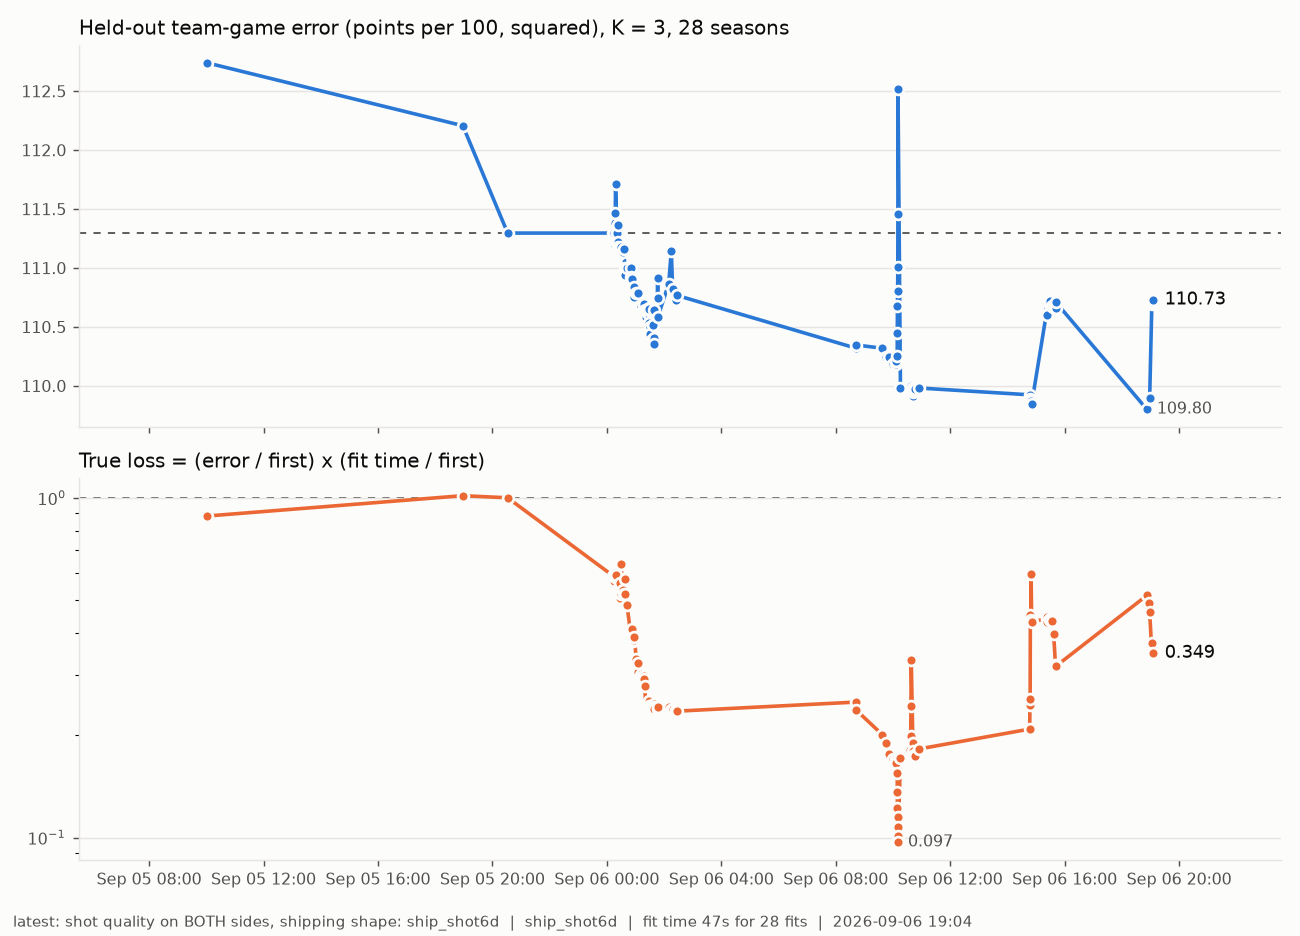
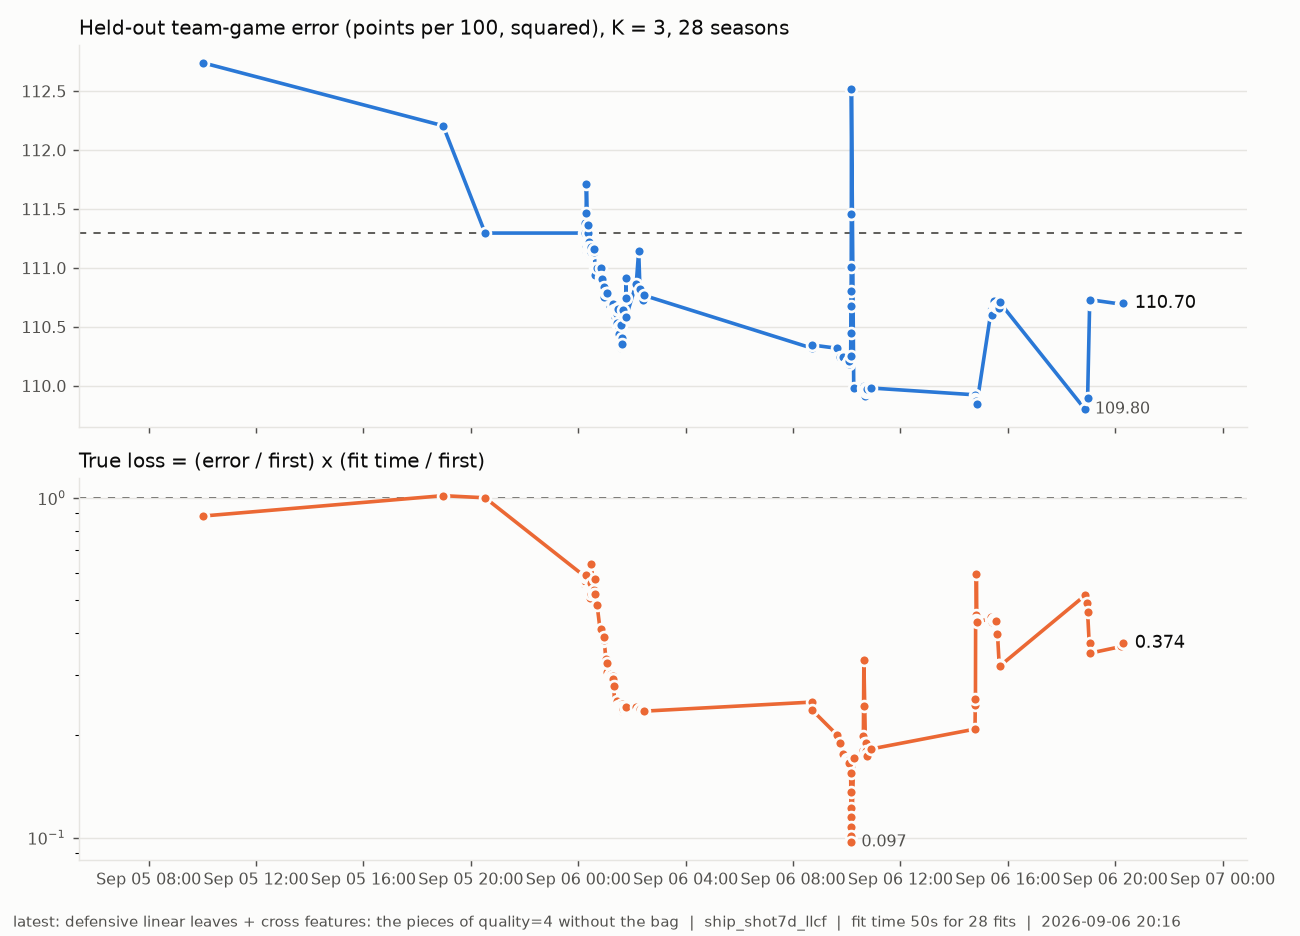
FINDINGS 22.6: season is not an intercept, and quality=4 on defense is three things
Chasing the owner's "it would not kill us to put season in as a linear term"
opened up the defensive booster, which nobody had decomposed.

The intercept reading is answerable and the answer is no: the panel's target is
possession-centred inside every window, so it drifts +0.078 points across 29
seasons against a target sd of 2.216.  There is no era trend left to fit.  But
season is worth +0.066 as a CONDITIONER, so the question was the shape, not the
usefulness.  Era-standardising the rates (HANDOFF 3.3's year-old item) is +0.032
on offense and -0.003 on defense: rejected.  linear_leaves is the local linear
version, offense already has it via quality=4 (forcing it off costs +0.011), and
defense is the one side shipping with it explicitly off -- where it is worth
-0.009.

That made the decomposition worth doing.  On defense, base 0.7223: linear_leaves
-0.0090, cross_features +0.0040 alone but -0.0128 together with linear leaves,
the bag +0.0028.  Two findings.  The parts interact on defense exactly as 21.25
found on offense.  And the BAG is what widens the prior -- the only piece that
moves the calibration slope, 1.08 -> 1.15 -- which is the floor that owns the
only permanently-failing test, so 21.26's "defense will not tolerate quality=4"
was really about the bag and the other two were collateral.  The bag is also the
only piece that helps the low-exposure rows (1.032 vs 1.075), so that tension is
live, and HANDOFF 3.3 now records it.
[…]

diff --git a/src/eracoef/systems.py b/src/eracoef/systems.py
@@ -223,6 +223,25 @@ def registry(cfg, rankmap=None, calmap=None) -> dict:
         S["best_both"] = MspiFast("best_both", gbdt_params=_FULLQ4, win_decay=0.3, decay=0.5,
                                   decay_exposure=True, target="apm",
                                   gbdt_features={"O": list(_PF), "D": list(_PF)})
+        # DEFENSIVE LINEAR LEAVES (the owner, 2026-09-06: "it would not kill us to put season in as a linear
+        # term").  A season INTERCEPT has nothing to capture -- the panel's target is possession-centred
+        # inside every window, so it drifts 0.078 over 29 years against a target sd of 2.2 -- but season is
+        # worth +0.066 as a CONDITIONER, and defense is the one side that ships with `linear_leaves: False`.
+        # A ridge per leaf over the split features is that conditioning made local and linear: -0.009 weighted
+        # MSE on the prior's own fit, the largest defensive gain measured this pass.
+        _LLD = {"linear_leaves": True, "cross_features": False}
+        # and the pieces of quality=4 decomposed on defense: linear leaves are the good part (-0.009), cross
+        # features are HARMFUL alone (+0.004) and the best thing available beside them (-0.013 together), and
+        # the BAG is what widens the prior (slope 1.08 -> 1.15) -- which is what the defensive spread floor
+        # polices, and a mechanism for why 21.26 had to reject the whole package on this side.
+        S["ship_shot7d_llcf"] = MspiFast("ship_shot7d_llcf", target="blend0.7", target_d="rapm1",
+                                         gbdt_params=_FULLQ4, win_decay=0.3, win_decay_d=1.0,
+                                         gbdt_params_d={"linear_leaves": True, "cross_features": True},
+                                         gbdt_features={"O": list(_SF), "D": [*_FF, *_SQ]})
+        S["ship_shot7d_ll"] = MspiFast("ship_shot7d_ll", target="blend0.7", target_d="rapm1",
+                                       gbdt_params=_FULLQ4, win_decay=0.3, gbdt_params_d=_LLD,
+                                       win_decay_d=1.0,
+                                       gbdt_features={"O": list(_SF), "D": [*_FF, *_SQ]})
         # the same without the nearby-window discount (the consensus floors, not the criterion, may want it)
         S["ship_ratio_b07_wd1"] = MspiFast("ship_ratio_b07_wd1", target="blend0.7",
                                            **{**_SK, "win_decay": 1.0})

diff --git a/FINDINGS.md b/FINDINGS.md
@@ -2405,6 +2405,75 @@ consensus, defensive spread 1.30, ten of ten floors, 82 passed and 1 xfailed.**
 if a later pass decides the score is worth the defensive headroom: drop the six names from `features_full_D`
 and point `cal_map` at `ship_shot7`.
 
+### 6. Season is not an intercept, and `quality=4` on defense is three things, not one
+
+The owner, reading the SHAP table: *"I don't think it would kill us to put season in as a linear term in the
+gbdt."*  The first half of that is answerable with a measurement and the answer is no -- but chasing it opened
+the defensive booster up, which nobody had done.
+
+**A season INTERCEPT has nothing to fit.**  The panel's target is possession-centred inside every window, so
+the weighted target mean drifts **+0.078 points across the 29 seasons on offense against a target sd of
+2.216** (3.5% of a sd) and 0.243 against 1.200 on defense, non-monotonically.  There is no era trend left in
+the target because the construction already removed it.
+
+**Season is nonetheless worth +0.066** -- deleting it from the shipped offensive list costs that much weighted
+MSE, and +0.129 on the low-exposure rows.  So its job is as a CONDITIONER: the same box line means different
+things in different eras, and an oblivious tree pays for that by re-splitting thresholds inside every era
+branch.  That is the thing a linear treatment could help, and it is a different thing from an intercept.
+
+Two ways to give it one, measured on the prior's own leave-window-out fit at each side's shipped booster:
+
+* **Era-standardise the rates** (z within window x side, which is exactly reproducible at prediction time
+  because the panel's window and the design's block are the same player population).  HANDOFF 3.3 had listed
+  this for a year.  **Offense +0.032, defense -0.003.**  Rejected.
+* **`linear_leaves`** -- a ridge per leaf over the split features, which is the local linear version.  Offense
+  already has it: `quality=4` leaves it validation-selected and forcing it OFF costs +0.011.  **Defense is the
+  one side that ships with it explicitly off** (`params_def`), and turning it on is **-0.009**.
+
+That last number made it worth decomposing `quality=4` on defense, which 21.26 had rejected as a package.
+Defensive prior, target RAPM_1, base 0.7223 weighted MSE:
+
+| | MSE | vs base | low-exposure | r | slope |
+|---|---|---|---|---|---|
+| shipped (`linear_leaves` off, `cross_features` off) | 0.7223 | | 1.0745 | 0.708 | 1.08 |
+| `linear_leaves` | 0.7133 | **-0.0090** | 1.0517 | 0.712 | 1.08 |
+| `cross_features` | 0.7263 | +0.0040 | 1.0812 | 0.706 | 1.07 |
+| **both** | **0.7095** | **-0.0128** | 1.0659 | **0.714** | 1.06 |
+| the bag (5 members) | 0.7251 | +0.0028 | 1.0376 | 0.709 | **1.12** |
+| linear leaves + the bag | 0.7231 | +0.0008 | **1.0324** | 0.712 | **1.15** |
+
+Three readings, and the third is the useful one.
+
+**The parts interact on defense exactly as 21.25 found on offense.**  `cross_features` is HARMFUL alone
+(+0.004) and the best thing available beside linear leaves (-0.013 together).  A knob's sign here depends on
+what else is on.
+
+**The bag is what widens the prior.**  It is the only variant that moves the calibration slope, 1.08 -> 1.12
+and 1.15, and defensive width is the floor that owns the only permanently-failing test.  That is a mechanism
+for 21.26's blunt finding that "defense will not tolerate `quality=4`": it is the BAG that defense will not
+tolerate, and the other two pieces were rejected as collateral.  The bag is also the only variant that helps
+the LOW-EXPOSURE rows (1.032 against 1.075) -- the players the prior actually decides -- so this is a real
+tension and not a settled question.
+
+**And the criterion disagreed with all of it.**  Against the shipped `ship_shot7d` at 110.707:
+
+| | criterion | vs shipped | z | floors |
+|---|---|---|---|---|
+| `ship_shot7d_ll` (linear leaves) | 110.6925 | -0.0139 | -0.75 | 10 of 10, def 0.767, spread 1.31 |
+| `ship_shot7d_llcf` (+ cross features) | 110.7006 | -0.0059 | -0.23 | not read |
+
+The offline ranking is `llcf` (0.7095) ahead of `ll` (0.7133); the criterion's is the reverse.  **Cross
+features bought another 0.004 of the prior's own fit and gave back 0.008 of the criterion.**  That is the
+third divergence in this section alone -- experience (22.2), and now this -- and the pattern is consistent
+enough to state plainly: **the prior's own out-of-sample fit ranks candidates correctly only when they differ
+in INFORMATION, and unreliably when they differ in CAPACITY.**  22.1's shot quality agreed across both
+(-0.044 offline, -0.045 on the criterion).  Every capacity knob measured here and in 21.24-21.25 has not.
+
+Nothing shipped.  `ship_shot7d_ll` is a genuine -0.014 with ten of ten floors and it is inside the noise
+(z -0.75) on a project bar that has been z -3, and its defensive agreement is 0.767 against the shipped
+0.768.  Both systems stay in the registry; `scratch/prior_bench.py` grew `--ll`, `--cf`, `--ne` and `--zrates`
+for whoever picks the defensive booster up again.
+
 ### 5. What the pass says about the prior
 
 Five things were measured on the criterion and four of them are zero or worse.  The one that is not is worth

diff --git a/HANDOFF.md b/HANDOFF.md
@@ -268,21 +268,38 @@ expected points allowed.  It was 0.4's "right but too big for v1" and it is now 
 
 A day's work; the principled version of what `x3def` did by hand.
 
-### 3.3 Per-player shrinkage from the prior's own confidence
+### 3.3 The defensive booster, now that its pieces are separated (FINDINGS 22.6)
+
+21.26 rejected `quality=4` on defense as a package because the consensus floors would not take it.  It is
+three things and only one of them is the problem:
+
+* **`linear_leaves` is the good part** -- -0.009 weighted MSE on the prior's own fit, and the criterion agrees
+  (`ship_shot7d_ll`, 110.6925, -0.014 against the shipped board, ten of ten floors).  It is inside the noise
+  at z -0.75 and was not shipped, but it is the closest thing to a free defensive gain on the table.
+* **`cross_features` is harmful alone and helpful beside linear leaves** (+0.004, then -0.013 together) -- and
+  the criterion reverses that: `ship_shot7d_llcf` is only -0.006.  Do not trust the offline ranking on this.
+* **the BAG is what defense will not tolerate.**  It is the only piece that moves the prior's calibration
+  slope (1.08 -> 1.15), i.e. widens it, and defensive width is the binding floor.  **But it is also the only
+  piece that improves the LOW-EXPOSURE rows** (1.032 against 1.075), which are the players the prior actually
+  decides.  That tension is unresolved and is the interesting part: a bagged defensive prior with the width
+  taken back out -- by 3.4's per-player shrinkage, or by a scalar -- has never been tried.
+
+### 3.4 Per-player shrinkage from the prior's own confidence
 
 Every player is pulled toward his prior by the same lambda, but the prior is far more predictive for some than
 others.  `quality=4` already fits 5 bagged members, so the disagreement across members is a per-player
 predictive spread, free.  Feed it into a per-player penalty (`lam_buckets` is the machinery, currently keyed on
 exposure groups).  This is the mechanism that would let the prior carry the bench hard without overriding
-stars -- the failure mode the criterion has complained about since FINDINGS 19.
+stars -- the failure mode the criterion has complained about since FINDINGS 19, and the way to take the
+defensive bag's width back out (3.3).
 
-### 3.4 Single-season targets, and getting off chunks
+### 3.5 Single-season targets, and getting off chunks
 
 Train the prior on single-season APM instead of three-season: more rows, noisier each, and a step toward the
 continuous rating the product is going to (0.2).  It is also the only change that would break the pooled-target
 mechanism of 22.2, which is worth knowing independently.
 
-### 3.5 Still open, not scheduled
+### 3.6 Still open, not scheduled
 
 * **TabFM** (`google/tabfm-1.0.0-jax`): installs and downloads (5.7 GB; point `HF_HOME` at `A:`), but the
   orbax restore dies in tensorstore on a 1.5 GB region -- 38.5 GB of the box's 48 GB commit limit was taken.
